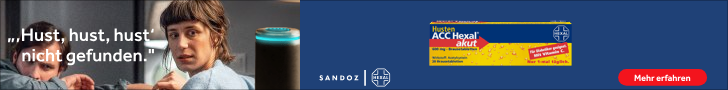
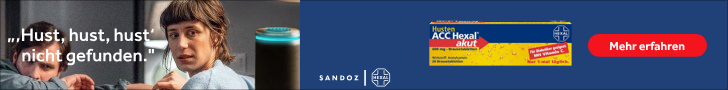
acc | updates

Changed region(s): [[0.7857, 0.3778, 0.9973, 0.6444], [0.8462, 0.7556, 0.9973, 0.9556]]

diff --git a/projects/sandoz/acc_hexal/2025_11_07/728x90_couple/index.html b/projects/sandoz/acc_hexal/2025_11_07/728x90_couple/index.html
@@ -316,10 +316,10 @@
           alt="cta"
           style="position: absolute;
             transform: rotate(0deg);
-            left: 617.7px;
-            top: 68.9px;
-            width: 90.2px;
-            height: 16.8px;"
+            left: 587.9px;
+            top: 34.2px;
+            width: 119.8px;
+            height: 22.4px;"
         />
         
         <!-- id: warning -->

diff --git a/projects/sandoz/acc_hexal/2025_11_07/728x90_navi/index.html b/projects/sandoz/acc_hexal/2025_11_07/728x90_navi/index.html
@@ -316,10 +316,10 @@
           alt="cta"
           style="position: absolute;
             transform: rotate(0deg);
-            left: 617.7px;
-            top: 68.9px;
-            width: 90.2px;
-            height: 16.8px;"
+            left: 587.9px;
+            top: 34.2px;
+            width: 119.8px;
+            height: 22.4px;"
         />
         
         <!-- id: warning -->
